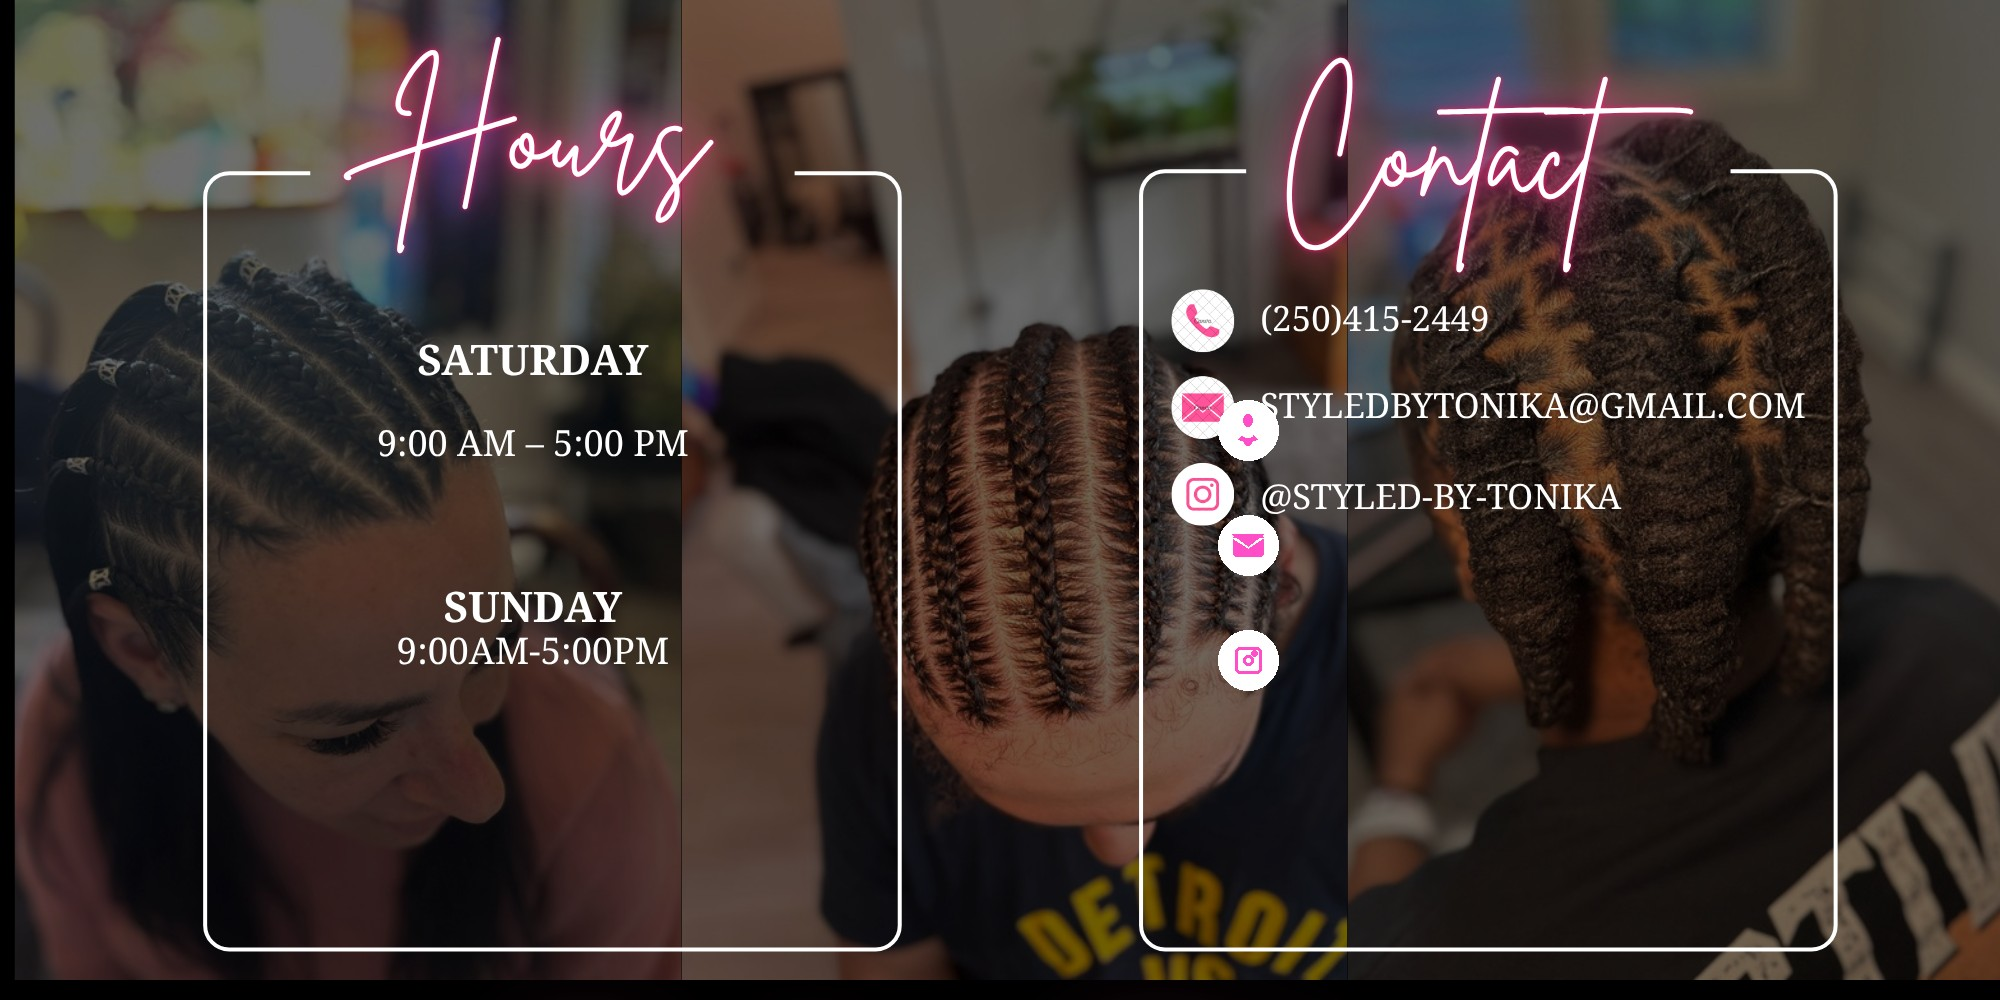
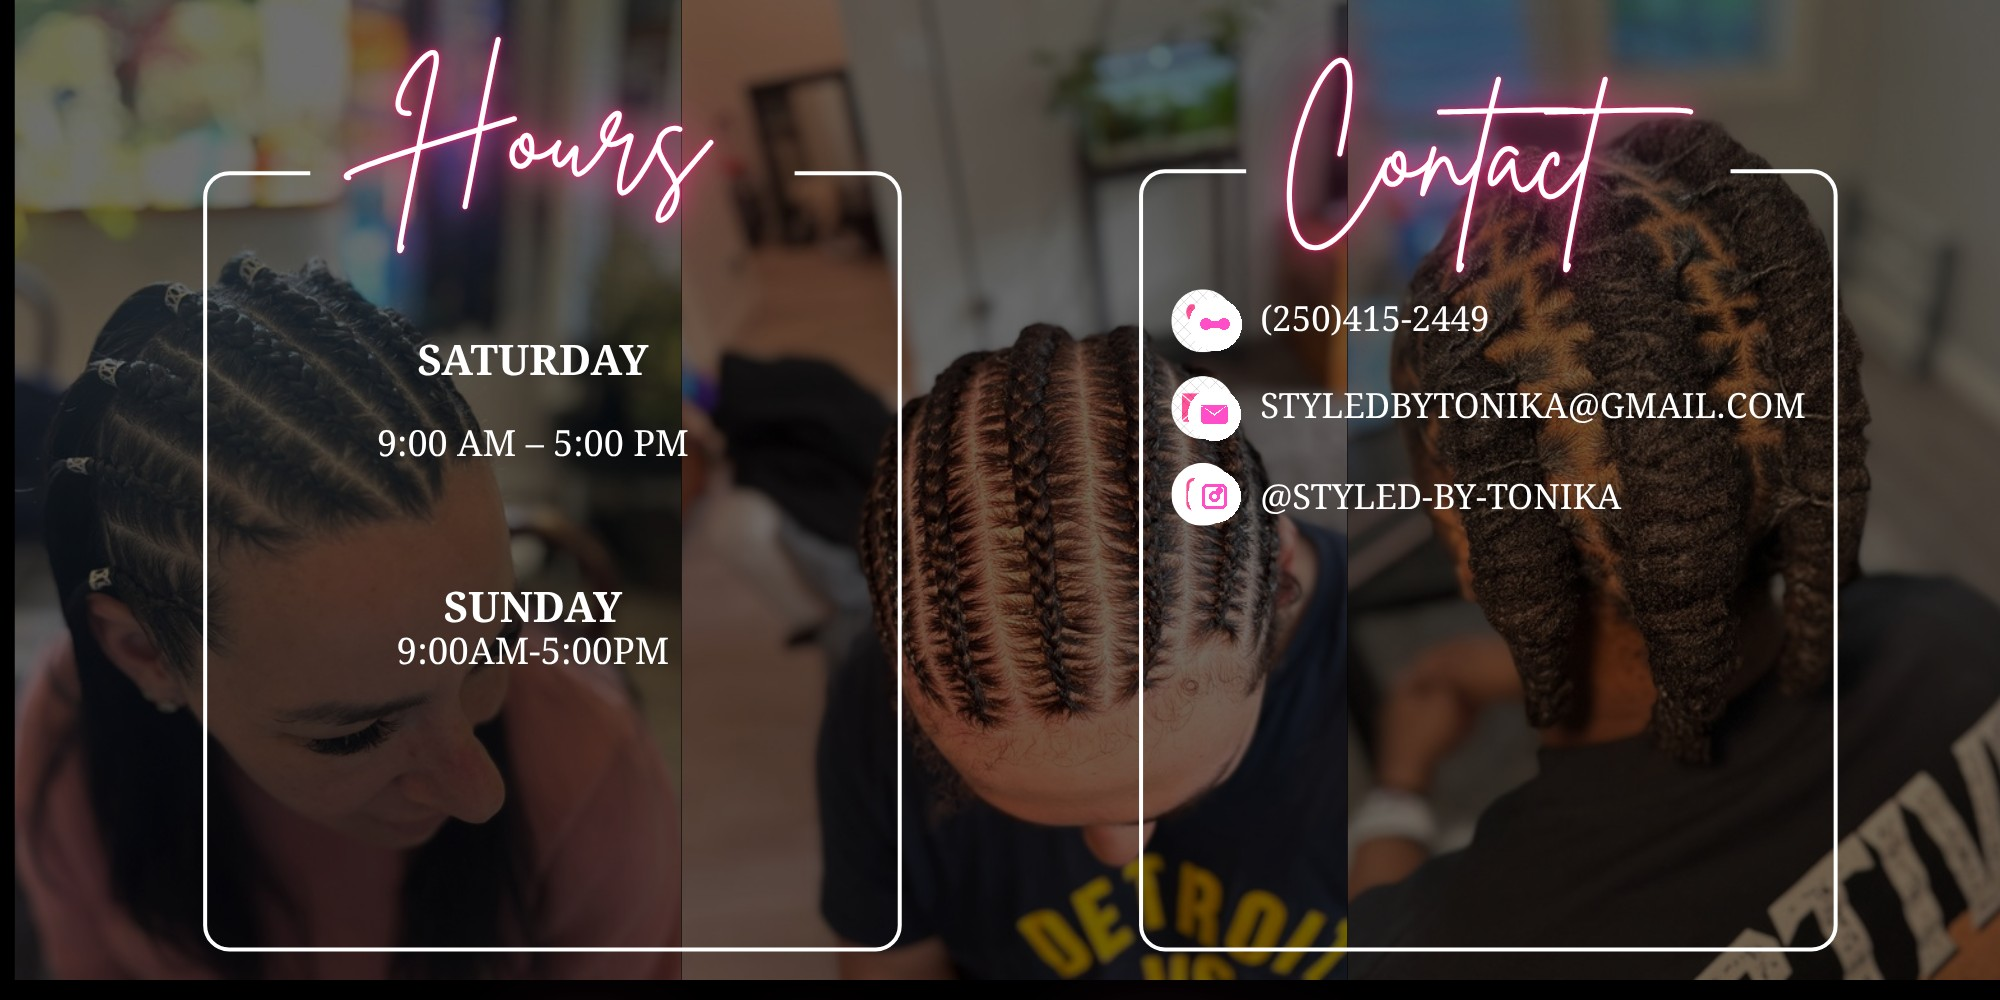
h

Changed region(s): [[0.589, 0.372, 0.651, 0.589], [0.589, 0.62, 0.651, 0.713], [0.589, 0.31, 0.62, 0.341]]

diff --git a/_fix_contact_icons.py b/_fix_contact_icons.py
@@ -1,6 +1,4 @@
-"""Restore canva-03 from the Canva banner and paint clean contact icons."""
-from __future__ import annotations
-
+"""Restore canva-03 and paint clean phone, email, Instagram icons."""
 from pathlib import Path
 
 from PIL import Image, ImageDraw
@@ -13,35 +11,25 @@ PINK = (255, 78, 200)
 WHITE = (255, 255, 255)
 
 
-def restore() -> Image.Image:
-    banner = Image.open(BANNER).convert("RGB")
-    strip = banner.crop((0, 2000, 2000, 3000))
-    return strip
-
-
 def draw_phone(draw: ImageDraw.ImageDraw, cx: int, cy: int, s: int) -> None:
-    # Classic handset
     draw.rounded_rectangle(
-        [cx - s * 0.22, cy - s * 0.72, cx + s * 0.22, cy - s * 0.18],
-        radius=s * 0.22,
+        [cx - s * 0.78, cy - s * 0.30, cx - s * 0.18, cy + s * 0.30],
+        radius=int(s * 0.30),
         fill=PINK,
     )
     draw.rounded_rectangle(
-        [cx - s * 0.22, cy + s * 0.18, cx + s * 0.22, cy + s * 0.72],
-        radius=s * 0.22,
+        [cx + s * 0.18, cy - s * 0.30, cx + s * 0.78, cy + s * 0.30],
+        radius=int(s * 0.30),
         fill=PINK,
     )
-    draw.pieslice(
-        [cx - s * 0.78, cy - s * 0.55, cx + s * 0.78, cy + s * 0.55],
-        55,
-        125,
+    draw.polygon(
+        [
+            (cx - s * 0.32, cy - s * 0.16),
+            (cx + s * 0.32, cy - s * 0.16),
+            (cx + s * 0.24, cy + s * 0.18),
+            (cx - s * 0.24, cy + s * 0.18),
+        ],
         fill=PINK,
-    )
-    draw.pieslice(
-        [cx - s * 0.42, cy - s * 0.38, cx + s * 0.42, cy + s * 0.38],
-        50,
-        130,
-        fill=WHITE,
     )
 
 
@@ -53,16 +41,16 @@ def draw_mail(draw: ImageDraw.ImageDraw, cx: int, cy: int, s: int) -> None:
     )
     draw.polygon(
         [
-            (cx - s * 0.72, cy - s * 0.30),
-            (cx, cy + s * 0.16),
-            (cx + s * 0.72, cy - s * 0.30),
+            (cx - s * 0.72, cy - s * 0.48),
+            (cx, cy + s * 0.08),
+            (cx + s * 0.72, cy - s * 0.48),
         ],
         fill=WHITE,
     )
     draw.polygon(
         [
             (cx - s * 0.72, cy - s * 0.48),
-            (cx, cy + s * 0.06),
+            (cx, cy - s * 0.02),
             (cx + s * 0.72, cy - s * 0.48),
         ],
         fill=PINK,
@@ -70,80 +58,33 @@ def draw_mail(draw: ImageDraw.ImageDraw, cx: int, cy: int, s: int) -> None:
 
 
 def draw_instagram(draw: ImageDraw.ImageDraw, cx: int, cy: int, s: int) -> None:
-    w = max(3, int(s * 0.14))
+    w = max(3, int(s * 0.16))
     draw.rounded_rectangle(
-        [cx - s * 0.62, cy - s * 0.62, cx + s * 0.62, cy + s * 0.62],
-        radius=int(s * 0.28),
+        [cx - s * 0.64, cy - s * 0.64, cx + s * 0.64, cy + s * 0.64],
+        radius=int(s * 0.30),
         outline=PINK,
         width=w,
     )
     r = int(s * 0.28)
     draw.ellipse([cx - r, cy - r, cx + r, cy + r], outline=PINK, width=w)
     d = max(3, int(s * 0.10))
-    draw.ellipse([cx + int(s * 0.30) - d, cy - int(s * 0.38) - d, cx + int(s * 0.30) + d, cy - int(s * 0.38) + d], fill=PINK)
-
-
-def locate_icons(im: Image.Image) -> list[tuple[int, int, int]]:
-    """Find three white icon circles in the contact column."""
-    pix = im.load()
-    w, h = im.size
-    found: list[tuple[int, int, int]] = []
-    y = 360
-    while y < 820 and len(found) < 3:
-        best = None
-        best_count = 0
-        for x in range(1185, 1320):
-            r, g, b = pix[x, y]
-            if r < 200 or g < 200 or b < 200:
-                continue
-            # count white pixels in a small neighborhood
-            count = 0
-            for dy in range(-18, 19, 2):
-                for dx in range(-18, 19, 2):
-                    xx, yy = x + dx, y + dy
-                    if 0 <= xx < w and 0 <= yy < h:
-                        rr, gg, bb = pix[xx, yy]
-                        if rr > 200 and gg > 200 and bb > 200:
-                            count += 1
-            if count > best_count:
-                best_count = count
-                best = (x, y)
-        if best and best_count > 80:
-            cx, cy = best
-            # refine radius
-            rad = 18
-            for dx in range(16, 42):
-                xx = cx + dx
-                if xx >= w:
-                    break
-                rr, gg, bb = pix[xx, cy]
-                if rr < 160 or gg < 160:
-                    rad = dx + 1
-                    break
-            found.append((cx, cy, rad))
-            y += max(70, rad * 2 + 18)
-        else:
-            y += 6
-    return found
+    draw.ellipse(
+        [cx + int(s * 0.32) - d, cy - int(s * 0.38) - d, cx + int(s * 0.32) + d, cy - int(s * 0.38) + d],
+        fill=PINK,
+    )
 
 
 def main() -> None:
-    im = restore()
-    PREVIEW.mkdir(parents=True, exist_ok=True)
-    im.crop((1160, 340, 1380, 820)).save(PREVIEW / "icon-col.jpg", quality=95)
-    circles = locate_icons(im)
-    print("circles", circles)
-    if len(circles) != 3:
-        # fallback measured from the original flyer
-        circles = [(1248, 430, 28), (1248, 545, 28), (1248, 660, 28)]
-        print("using fallback", circles)
+    im = Image.open(BANNER).convert("RGB").crop((0, 2000, 2000, 3000))
     draw = ImageDraw.Draw(im)
+    circles = [(1215, 324, 26), (1214, 414, 26), (1214, 496, 26)]
     painters = [draw_phone, draw_mail, draw_instagram]
     for (cx, cy, rad), paint in zip(circles, painters):
-        draw.ellipse([cx - rad - 2, cy - rad - 2, cx + rad + 2, cy + rad + 2], fill=WHITE)
-        paint(draw, cx, cy, int(rad * 0.78))
+        draw.ellipse([cx - rad, cy - rad, cx + rad, cy + rad], fill=WHITE)
+        paint(draw, cx, cy, 18)
     im.save(OUT, "JPEG", quality=90, optimize=True, progressive=True)
-    im.crop((1160, 340, 1680, 820)).save(PREVIEW / "icons-fixed.jpg", quality=95)
+    PREVIEW.mkdir(parents=True, exist_ok=True)
+    im.crop((1175, 290, 1600, 540)).save(PREVIEW / "icons-fixed.jpg", quality=95)
     print("saved", OUT)
 
 
